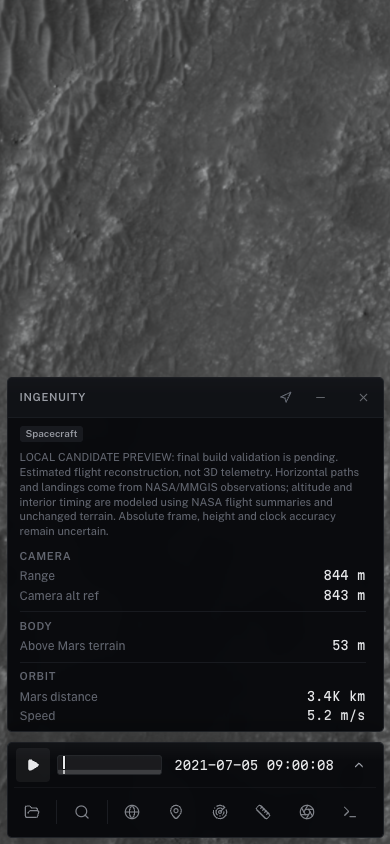
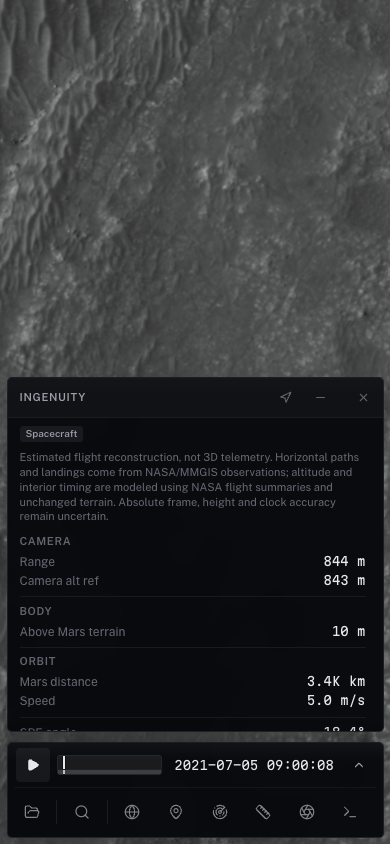
Handle mission receipts and correct ellipsoidal clearance readouts

diff --git a/apps/viewer/src/components/BodyInfoPanel.svelte b/apps/viewer/src/components/BodyInfoPanel.svelte
@@ -40,14 +40,16 @@
     // This latitude is intentionally planetocentric: surfaceRadiusAtLat()
     // intersects the ellipsoid along the camera's radial direction.
     const radialLatDeg = Math.asin(Math.max(-1, Math.min(1, bf.y / len))) * (180 / Math.PI);
-    const terrainLatDeg = terrainPosition?.latDeg ?? radialLatDeg;
     const terrainSample = bm.sampleTerrainBodyFixed(bodyFixedPoint);
     const referenceAltitude = distance - bm.surfaceRadiusAtLat(radialLatDeg);
+    const sampled = terrainSample != null && terrainPosition?.heightKm != null;
     return {
-      value: terrainSample
-        ? distance - (bm.terrainReferenceRadiusAt(terrainLatDeg) + terrainSample.elevationKm)
+      // Both public heights use the terrain datum's normal coordinate. Adding
+      // that height to a directional radius mixes geodetic and radial values.
+      value: sampled
+        ? terrainPosition!.heightKm! - terrainSample!.elevationKm
         : referenceAltitude,
-      sampled: terrainSample != null,
+      sampled,
     };
   });
 
@@ -82,15 +84,14 @@
       : 0;
     const bodyFixedPoint = { xKm: ecefX, yKm: ecefY, zKm: ecefZ };
     const terrainPosition = parentBm.terrainBodyFixedToGeodetic(bodyFixedPoint);
-    const terrainLatDeg = terrainPosition?.latDeg ?? radialLatDeg;
     const refRadius = parentBm.surfaceRadiusAtLat(radialLatDeg);
     const aboveRef = dist - refRadius;
 
     let aboveTerrain: number | null = null;
     if (parentBm.hasTerrain && rr > 1e-10) {
       const sample = parentBm.sampleTerrainBodyFixed(bodyFixedPoint);
-      if (sample) {
-        aboveTerrain = dist - (parentBm.terrainReferenceRadiusAt(terrainLatDeg) + sample.elevationKm);
+      if (sample && terrainPosition?.heightKm != null) {
+        aboveTerrain = terrainPosition.heightKm - sample.elevationKm;
       }
     }
     return { aboveTerrain, aboveRef, parentBmName: bm.body.parentName };

diff --git a/docs/validation/ingenuity-jezero/README.md b/docs/validation/ingenuity-jezero/README.md
@@ -21,7 +21,13 @@ now explicitly declares CTX's independent original grid; source-to-output
 registration remains required. The HiRISE 0.25 m / DTM 1 m coincident-grid gate
 remains strict, including a shifted-grid rejection regression. Neither source
 is moved or regridded to manufacture coincidence. A fresh immutable build is
-running with that policy; the rejected run has no publication receipt.
+completed with that policy; the rejected earlier run has no publication receipt.
+The completed V9 build contains 1,148,202,493 product bytes across one terrain
+and four imagery products. Its 6.4 MB completion receipt exposed a preflight
+reader limit intended for small fixtures. Completion receipts now allow up to
+32 MiB while ordinary JSON remains bounded to 2 MiB and full inventory checking
+is unchanged. This changes the locked executor identity, so V10 is rebuilding
+and must receive its own verified publication preflight and runtime replay.
 
 Local candidate viewing may use those generated files while validation finishes;
 the inspector labels that preview explicitly. Such a preview is not acceptance.
@@ -43,7 +49,11 @@ the shared changes. [Catalog preservation](catalog-contract.json) checks all 72
 arc identities/epochs, viewpoints, model, rotation and controls against the
 baseline. These records do not substitute for a completed five-product receipt
 or independent source accuracy. The local [390 px capture](captures/candidate-compact.png)
-visibly qualifies the reconstruction and candidate status.
+visibly qualifies the reconstruction; build status is recorded above.
+The completed V9 replay additionally checks inspector clearance at all 15 flight
+phases. The inspector now subtracts heights in the same normal datum coordinate,
+correcting a prior radial/normal mix that overstated clearance on Mars. Flight
+positions and terrain are unchanged by that display correction.
 The same-pose [coarse imagery](captures/candidate-imagery-coarse.png) and
 [fine imagery](captures/candidate-imagery-fine.png) captures change only the
 imagery cap. CPU hits, selected geometry and source position/normal/index buffer
